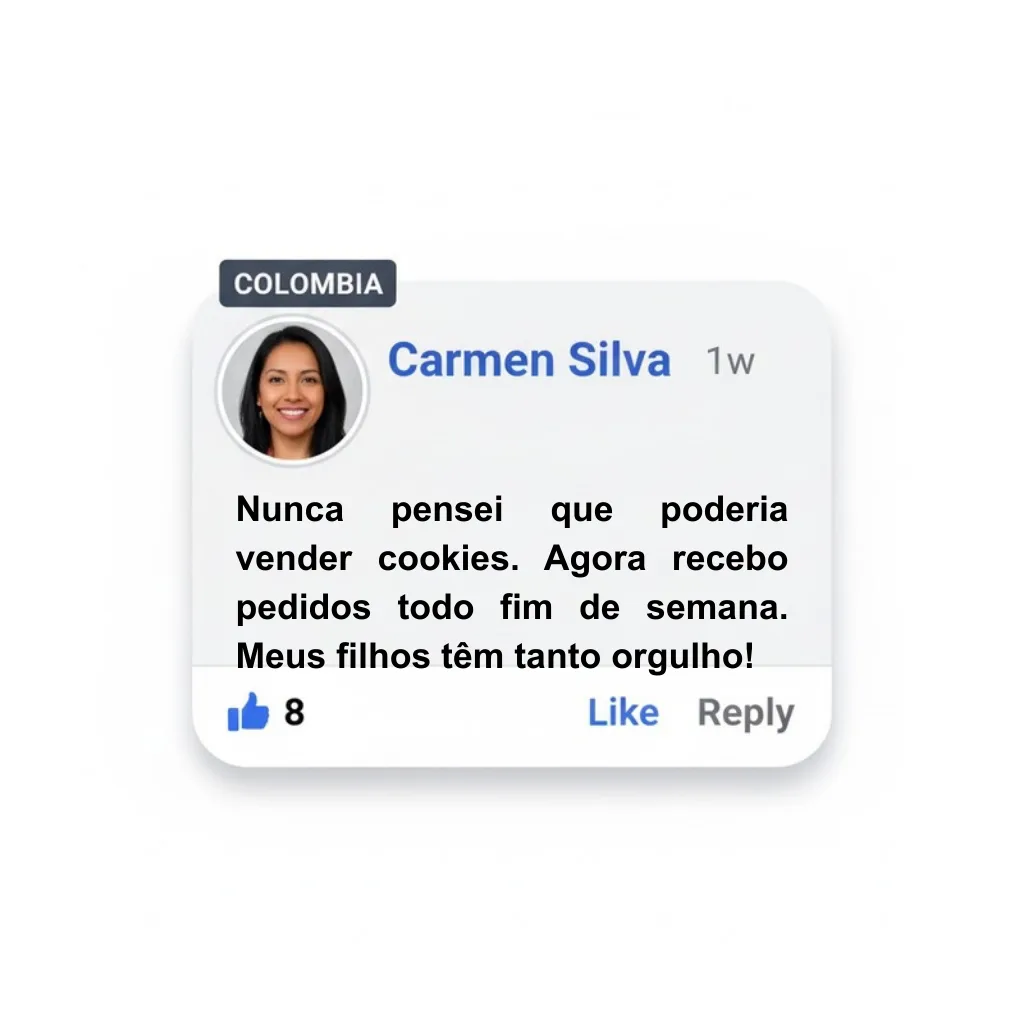
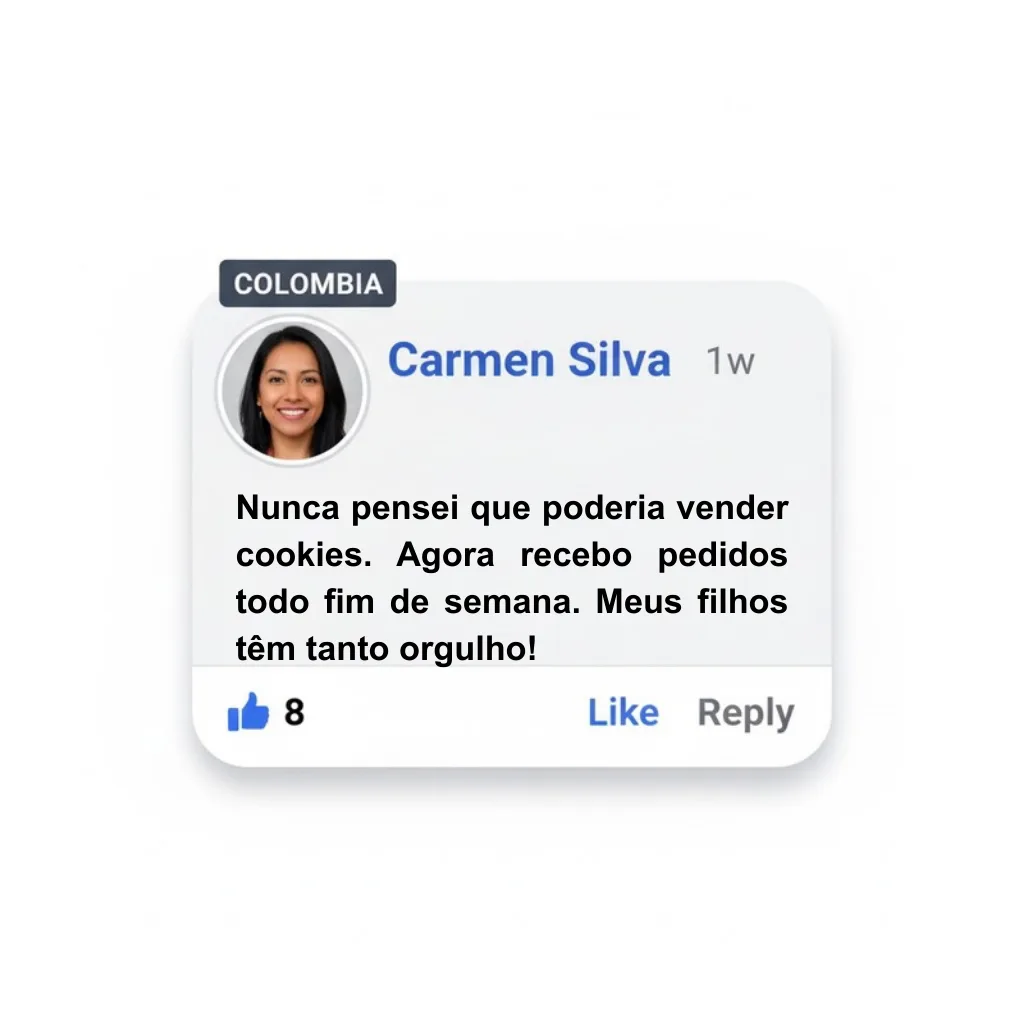
Re-export testimonial cards from updated Canva design + smaller carousel cards
Fresh export of all 72 testimonial card images from the fixed Canva design.
Reduced carousel card widths from 280-360px to 220-300px for better proportions.

Changed region(s): [[0.2188, 0.4688, 0.7812, 0.6562]]

diff --git a/src/components/TestimonialsSection.tsx b/src/components/TestimonialsSection.tsx
@@ -63,7 +63,7 @@ const TestimonialsSection = () => {
           {doubled.map((item, index) => (
             <div
               key={`${item.name}-${index}`}
-              className="flex-shrink-0 w-[280px] sm:w-[320px] md:w-[360px]"
+              className="flex-shrink-0 w-[220px] sm:w-[260px] md:w-[300px]"
             >
               <img
                 src={`/testimonials/${language}/${item.file}`}
